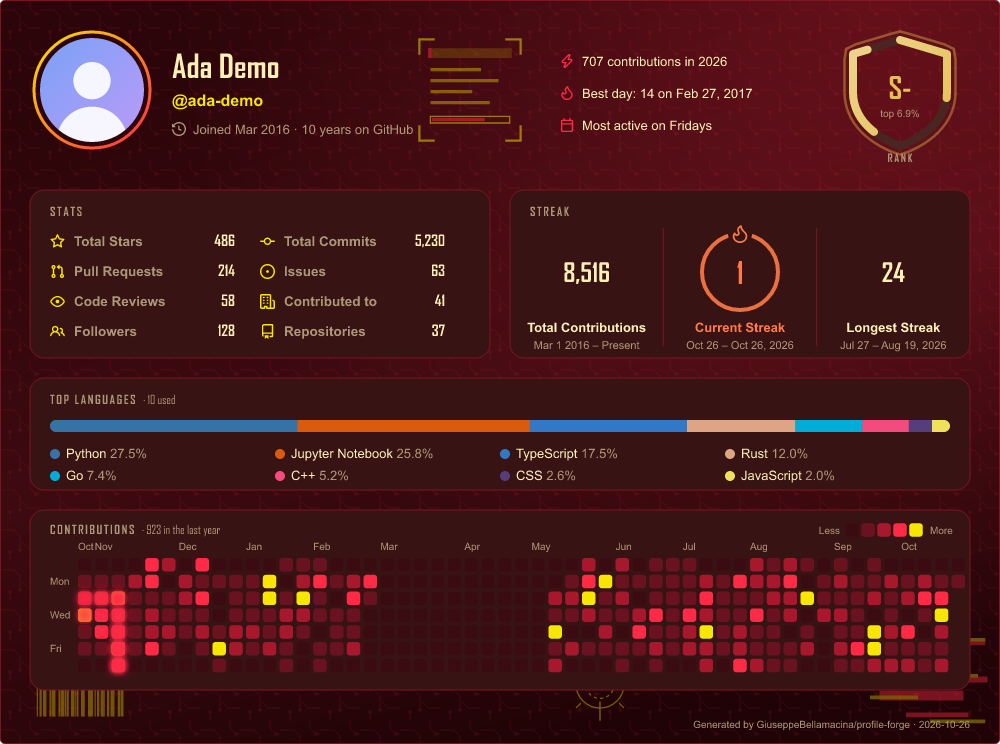
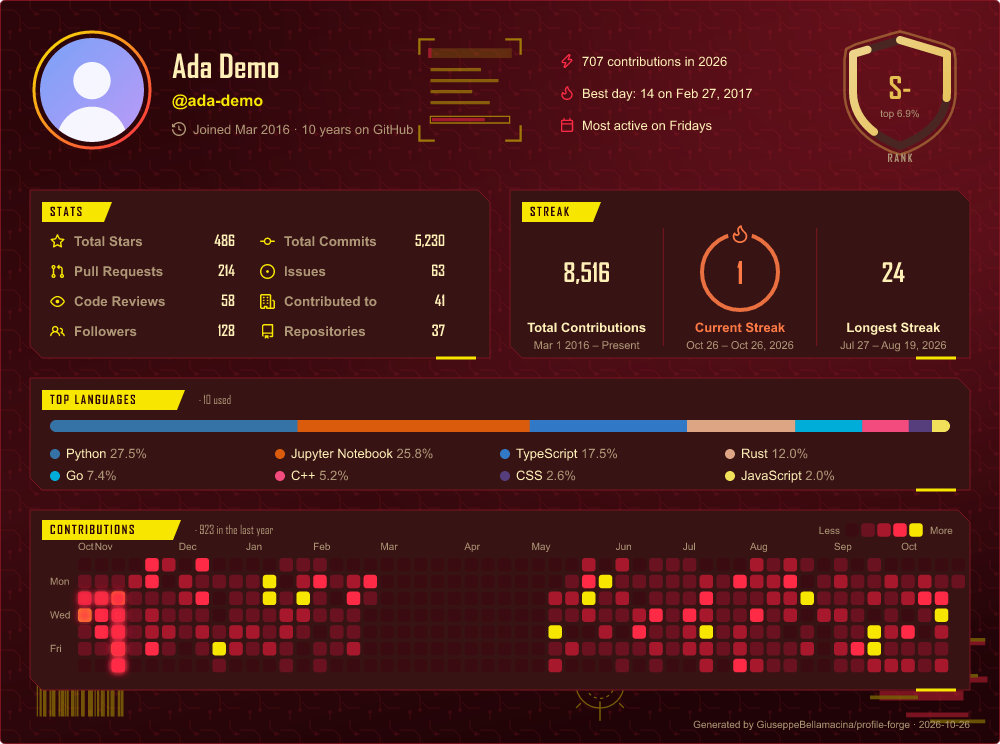
Panels (rounded, square, notched) and titles (plain, tag) of the card; edgerunner presets use them

diff --git a/src/render.js b/src/render.js
@@ -124,10 +124,24 @@ function animator(t) {
   };
 }
 
-const panel = (x, y, w, h, c) =>
-  `<rect x="${x}" y="${y}" width="${w}" height="${h}" rx="14" fill="${c.panel}" stroke="${c.border}"/>`;
-const heading = (x, y, text, c, extra = "") =>
-  `<text x="${x}" y="${y}" font-size="12" font-weight="700" font-family="${FD}" letter-spacing="1.6" fill="${c.title}">${esc(text)}${extra}</text>`;
+// the look of the panels (card.panels) and of their titles (card.titles) travels in the theme colours: c.panelStyle, c.titleStyle
+const panel = (x, y, w, h, c) => {
+  if (c.panelStyle === "notched") {
+    // chamfered corners (top right, bottom left) and a short accent stroke on the bottom edge, like a game HUD
+    const n = 12;
+    return `<path d="M${x} ${y}H${x + w - n}L${x + w} ${y + n}V${y + h}H${x + n}L${x} ${y + h - n}Z" fill="${c.panel}" stroke="${c.border}"/><path d="M${x + w - 54} ${y + h}H${x + w - 14}" stroke="${c.accent}" stroke-width="3"/>`;
+  }
+  return `<rect x="${x}" y="${y}" width="${w}" height="${h}" rx="${c.panelStyle === "square" ? 2 : 14}" fill="${c.panel}" stroke="${c.border}"/>`;
+};
+const heading = (x, y, text, c, extra = "") => {
+  if (c.titleStyle === "tag") {
+    // a label in the accent colour with a slanted end, the text in the card's background colour (or white on a light card)
+    const w = Math.round(textWidth(text.toUpperCase(), 12) + text.length * 1.6 + 8);
+    const ink = c.base === "light" ? "#ffffff" : c.bg1;
+    return `<path d="M${x - 8} ${y - 14}H${x + w + 6}L${x + w - 2} ${y + 6}H${x - 8}Z" fill="${c.accent}"/><text x="${x}" y="${y}" font-size="12" font-weight="700" font-family="${FD}" letter-spacing="1.6" fill="${ink}">${esc(text.toUpperCase())}</text>${extra ? `<text x="${x + w + 14}" y="${y}" font-size="12" font-family="${FD}">${extra}</text>` : ""}`;
+  }
+  return `<text x="${x}" y="${y}" font-size="12" font-weight="700" font-family="${FD}" letter-spacing="1.6" fill="${c.title}">${esc(text)}${extra}</text>`;
+};
 const sub = (c, text) => `<tspan dx="6" font-weight="400" letter-spacing="0" fill="${c.muted}">· ${esc(text)}</tspan>`;
 
 /**
@@ -1375,7 +1389,7 @@ function stackSection(d, X, W = 940) {
  * opts.t undefined = animated SVG, number = static frame at that progress.
  */
 export function render(d, { theme = "dark", t, fontCss = "", k = normalize(), colors, boxesOnly = false, ghost = false } = {}) {
-  const c = resolveTheme(theme, colors ?? k.colors);
+  const c = { ...resolveTheme(theme, colors ?? k.colors), panelStyle: k.card.panels, titleStyle: k.card.titles };
   if (t === undefined && !k.card.animations) t = 1;
   const A = animator(t);
   const tag = intlTag(k.locale);

diff --git a/src/config.js b/src/config.js
@@ -18,7 +18,7 @@ export const DEFAULTS = {
   locale: "en", timezone: "UTC", includePrivate: false,
   themes: ["dark", "light"], customThemes: {}, colors: {}, colorsByTheme: {},
   card: {
-    radius: 20, hideBorder: false, animations: true,
+    radius: 20, hideBorder: false, animations: true, panels: "rounded", titles: "plain",
     background: {
       gradient: null, pattern: "none", patternColor: null, patternOpacity: null, patternSize: 100,
       glow: true, glowColor: null, glowX: 85, glowY: 0, glowSize: 65, glowOpacity: 0.18,
@@ -44,7 +44,7 @@ export const DEFAULTS = {
 
 const FACTS = ["contributionsThisYear", "bestDay", "busiestWeekday", "currentStreak", "longestStreak", "topLanguage", "stars", "followers"];
 const ENUMS = {
-  locale: LOCALES, "card.background.pattern": ["none", "dots", "grid", "diagonal", "halftone", "scanlines", "stripes", "hex", "circuit", "crosses"], "card.background.imageFit": ["cover", "contain"],
+  locale: LOCALES, "card.background.pattern": ["none", "dots", "grid", "diagonal", "halftone", "scanlines", "stripes", "hex", "circuit", "crosses"], "card.background.imageFit": ["cover", "contain"], "card.panels": ["rounded", "square", "notched"], "card.titles": ["plain", "tag"],
   "header.avatar": ["circle", "rounded", "hide"], "header.frame": ["none", "ring", "double", "dashed", "neon", "pixel", "glitch", "laurel", "flames", "sakura", "stars", "halo", "aurora", "orbit", "prism", "auto"], "header.frameAnimation": ["default", "none", "spin", "pulse", "twinkle"], "header.rankStyle": ["ring", "hexagon", "shield"], "header.rankIcon": ["level", "percentile", "github"], "header.rankEffect": ["auto", "none", "halo", "shine", "embers", "rainbow"],
   "stats.numberFormat": ["long", "short"], "streak.mode": ["daily", "weekly"],
   "languages.layout": ["bar", "compact", "donut", "donut-vertical", "pie"], "languages.statsFormat": ["percentages", "bytes"],

diff --git a/test/stats.test.js b/test/stats.test.js
@@ -660,3 +660,14 @@ test("card art: motifs, images and the background are validated and drawn behind
   for (const pattern of ["dots", "grid", "diagonal", "halftone", "scanlines", "stripes", "hex", "circuit", "crosses"]) assert.ok(view({ background: { pattern } }).includes('<pattern id="pat"'), pattern);
   for (const motif of MOTIF_NAMES) assert.ok(view({ decor: [{ motif }] }).includes('opacity="0.5"'), motif);
 });
+
+test("card panels and titles: notched panels and tag titles are drawn, the defaults are unchanged", () => {
+  const view = (card) => { const [d, k] = make({ layout: ["header", "stats"], card }); return render(d, { k }); };
+  const plain = view({});
+  assert.ok(plain.includes('rx="14" fill=') && !/<path d="M30 \d+H/.test(plain), "rounded panels, plain titles");
+  const hud = view({ panels: "notched", titles: "tag" });
+  assert.ok(/<path d="M30 \d+H\d+L\d+ \d+V/.test(hud) && hud.includes(">STATS</text>"), "notched panel and an upper-case tag");
+  assert.ok(view({ panels: "square" }).includes('rx="2" fill='), "square panels");
+  assert.throws(() => normalize({ card: { panels: "round" } }), /card\.panels/);
+  assert.throws(() => normalize({ card: { titles: "big" } }), /card\.titles/);
+});

diff --git a/presets/README.md b/presets/README.md
@@ -22,8 +22,8 @@ Every preset defines a `dark` and a `light` slot, so the README `<picture>` snip
 | [`aurora`](aurora.json) | Northern-lights gradient, a terminal, weekday rhythm, glowing snake that always goes to the closest day |
 | [`zen`](zen.json) | Quiet paper / Rosé Pine Moon, rhythm first, halo frame, honeycomb heatmap, trophies by level |
 | [`showcase`](showcase.json) | Tokyo Night with every new piece: terminal, rhythm, rainbow snake, highlighted trophies |
-| [`edgerunner`](edgerunner.json) | Neon night, a circuit pattern, a skyline, a reticle and glitch bars; hexagon rank, classic Pac-Man maze |
-| [`edgerunner-red`](edgerunner-red.json) | Dark red with yellow labels: a circuit pattern, a system window, a barcode and glitch bars; shield rank, glowing snake |
+| [`edgerunner`](edgerunner.json) | After the poster (yellow sky, teal streets, an orange tower): circuit pattern, a skyline, a reticle, glitch bars, notched panels with tag titles; hexagon rank, classic Pac-Man maze |
+| [`edgerunner-red`](edgerunner-red.json) | Dark red with yellow labels, like the character cards of the series: notched panels with tag titles, a circuit pattern, a system window, a barcode and glitch bars; shield rank, glowing snake |
 | [`shadow-monarch`](shadow-monarch.json) | Violet and electric blue, a hex pattern, a rune circle and system window; shield rank, glowing snake |
 | [`dante`](dante.json) | Black, crimson and silver, faint wings and blades; shield rank |
 | [`hero-x`](hero-x.json) | Pop-art halftone in cyan, magenta and yellow, a burst and a bolt; open Pac-Man maze |

diff --git a/GUIDE.md b/GUIDE.md
@@ -182,6 +182,11 @@ More patterns: `halftone`, `scanlines`, `stripes`, `hex`, `circuit`, `crosses`.
 |---|---|---|---|
 | <img src="docs/guide/bg-halftone.png"> | <img src="docs/guide/bg-hex.png"> | <img src="docs/guide/bg-circuit.png"> | <img src="docs/guide/bg-scanlines.png"> |
 
+| Key (`card`) | Values | Default |
+|---|---|---|
+| `panels` | `rounded` `square` `notched` (chamfered corners and an accent stroke, like a game HUD) | `rounded` |
+| `titles` | `plain` `tag` (the title as a label in the accent colour with a slanted end) | `plain` |
+
 | Key (`card.background`) | Values | Default |
 |---|---|---|
 | `pattern` | `none` `dots` `grid` `diagonal` `halftone` `scanlines` `stripes` `hex` `circuit` `crosses` | `none` |
